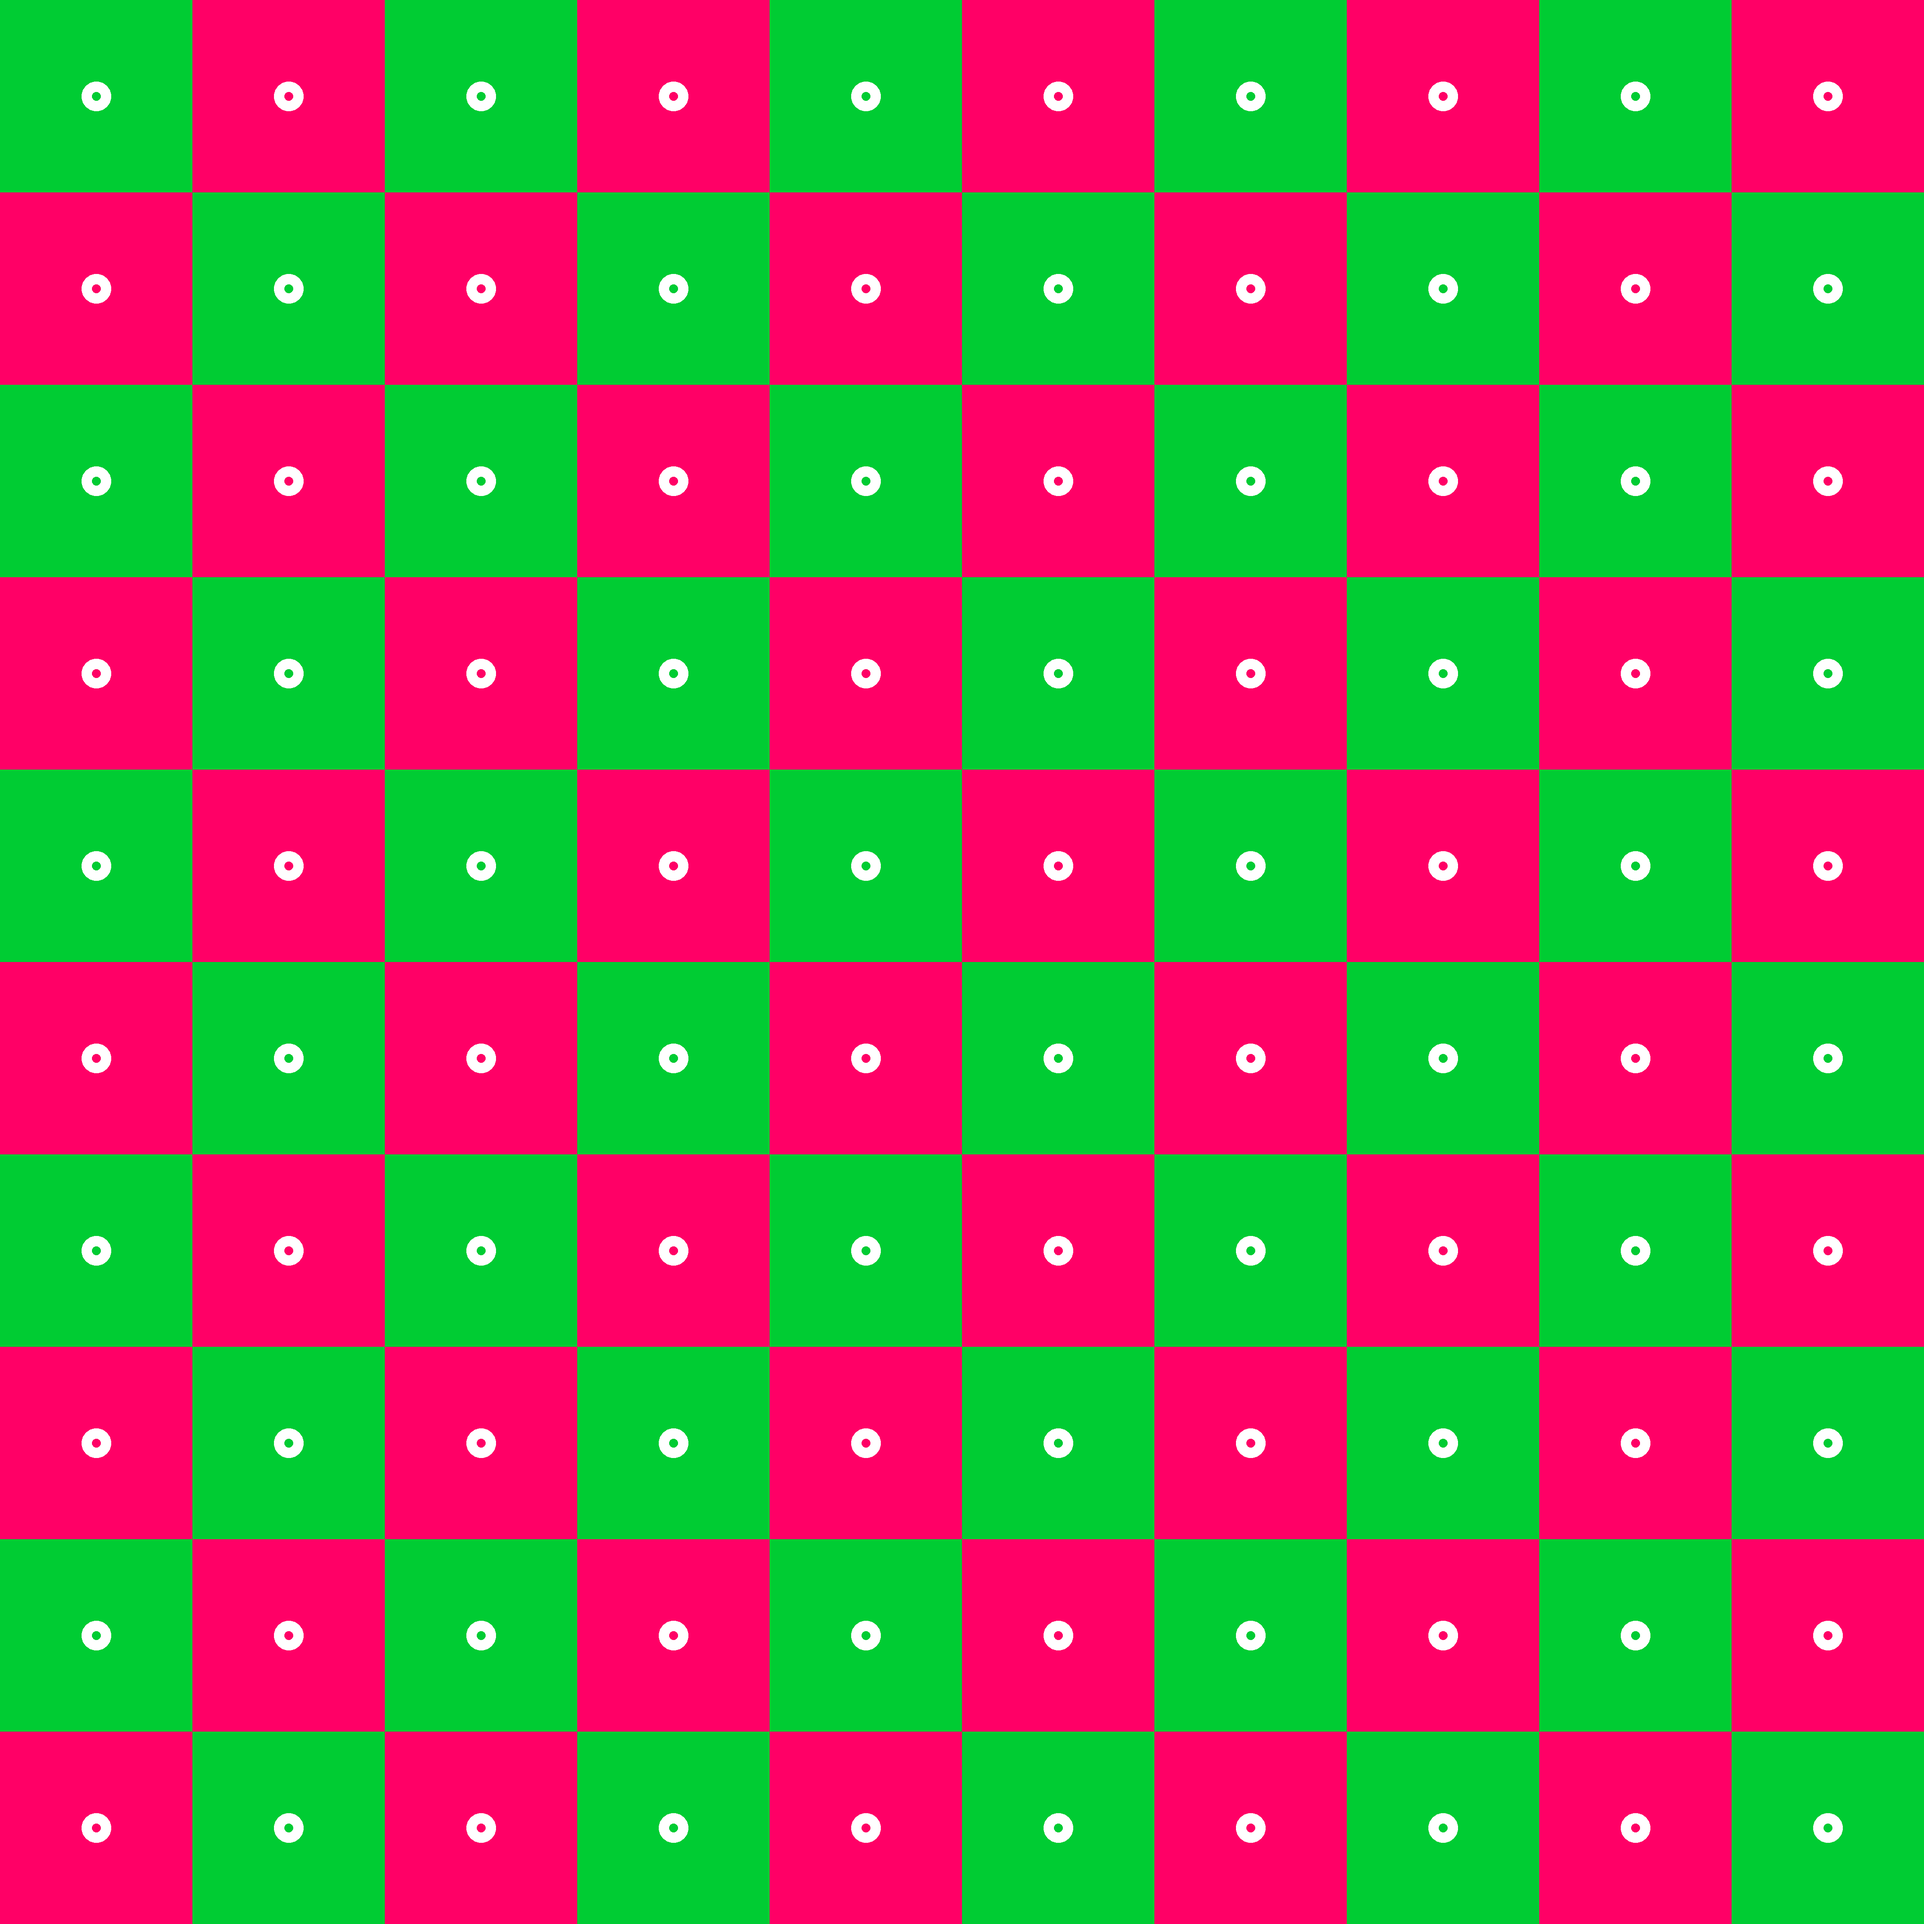
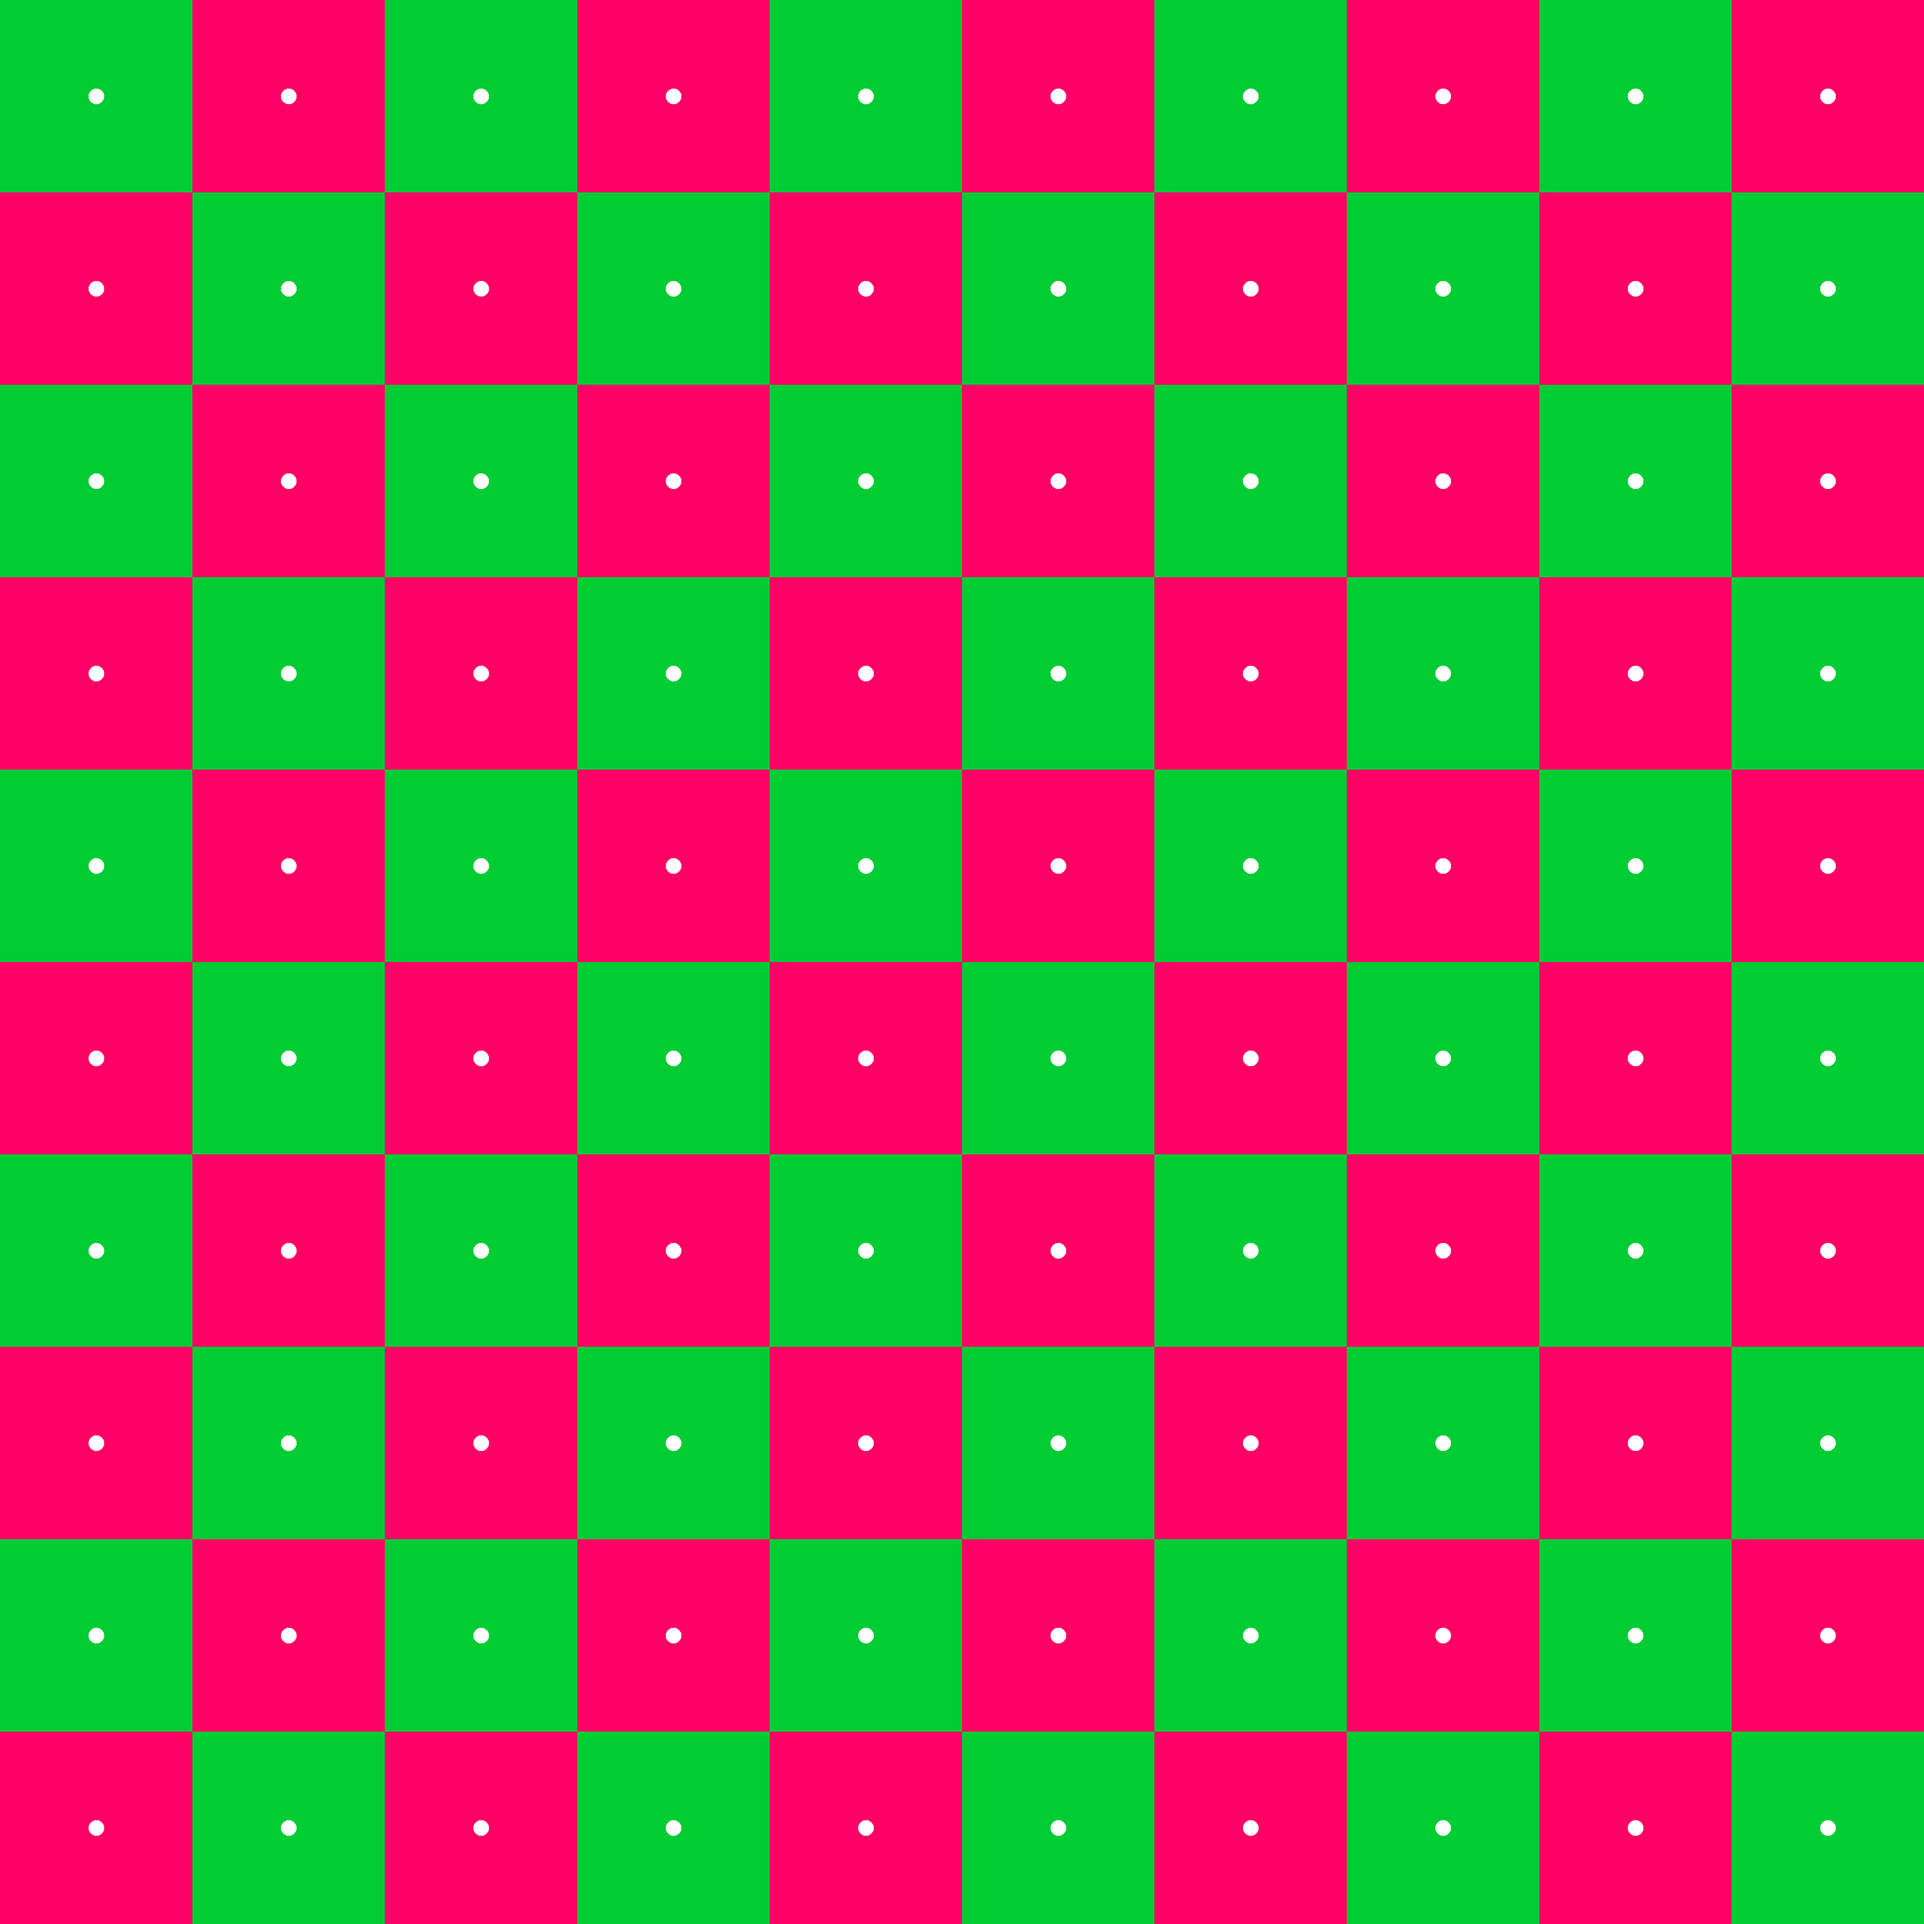
smaller circles

diff --git a/cvg_sim_gazebo/grid/grid_circles.cpp b/cvg_sim_gazebo/grid/grid_circles.cpp
@@ -77,8 +77,8 @@ int main(int argc, char* argv[]) {
                 color = true;
             }
             circle(grid_image, Point(pixel_scale*(i+.5), pixel_scale*(j+.5)),
-	        (pixel_scale/20), Scalar(255, 255, 255), 
-		pixel_scale/20, 8, 0); //white
+	        (10), Scalar(255, 255, 255), 
+		20, 8, 0); //white
         }
     }
 
